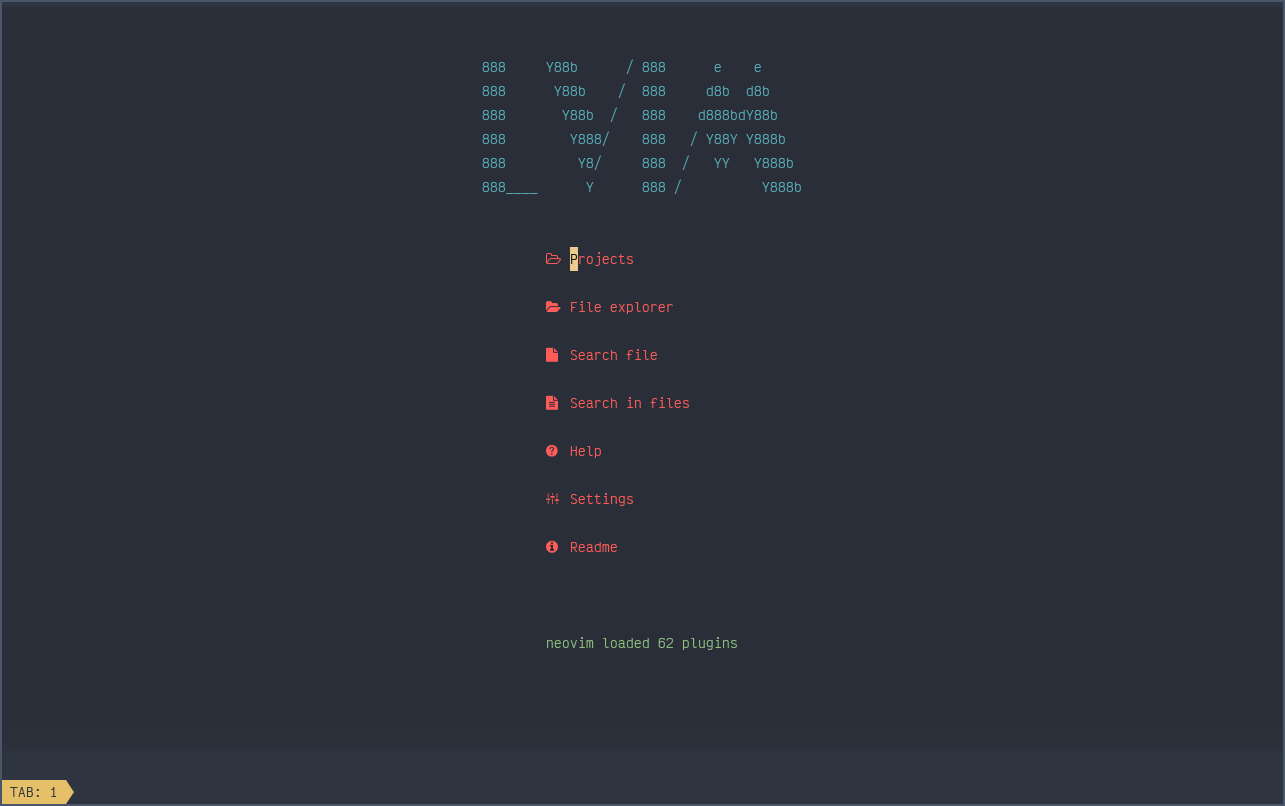
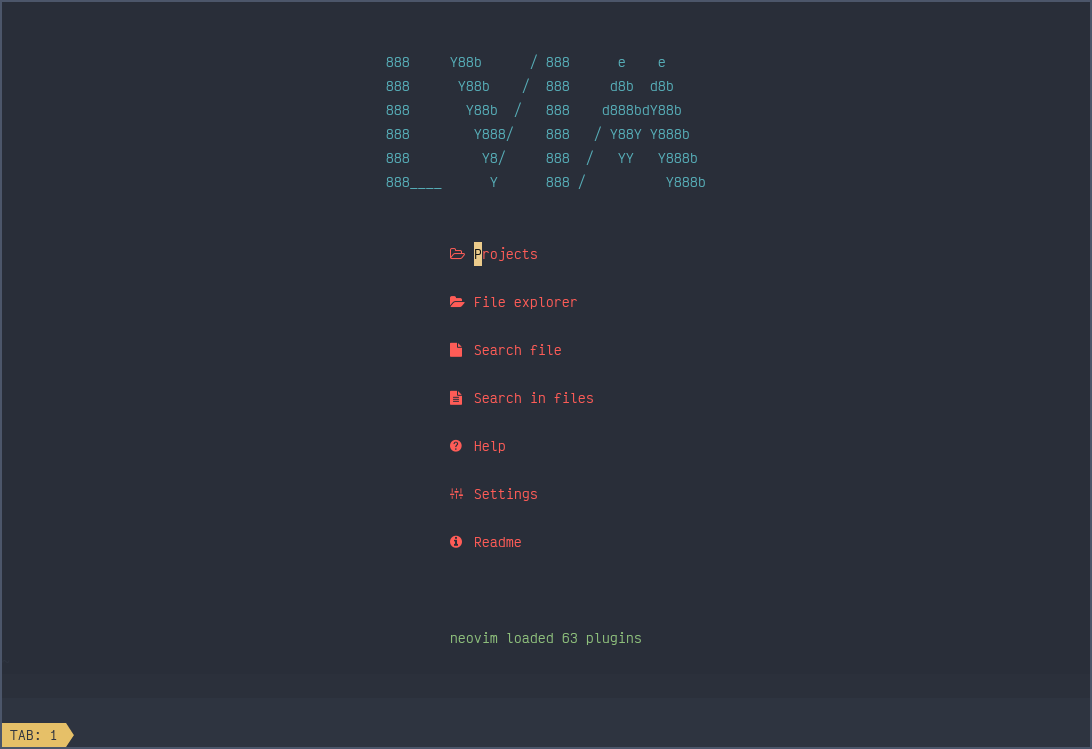
LVIM IDE v1.1.1

diff --git a/README.md b/README.md
@@ -12,17 +12,17 @@
 
 ## LVIM IDE is a modular Neovim configuration written in LUA with full customization
 
-- Now support Neovim 0.5.0, 0.5.1, 0.6.0+
-- Add or remove plugins, rewrite all plugins
-- Add or remove settings, rewrite all settings
-- Dynamic LSP activation
-- Dynamic debugging activation - Dap
-- Automaticaly install of the lsp servers and dap
-- Linters
-- Autoformat
-- Custom settings for projects
-- 62 plugins
-- Loading time - ~065.000
+-   Now support Neovim 0.5.0, 0.5.1, 0.6.0+
+-   Add or remove plugins, rewrite all plugins
+-   Add or remove settings, rewrite all settings
+-   Dynamic LSP activation
+-   Dynamic debugging activation - Dap
+-   Automaticaly install of the lsp servers and dap
+-   Linters
+-   Autoformat
+-   Custom settings for projects
+-   63 plugins
+-   Loading time - ~065.000
 
 ---
 
@@ -36,15 +36,15 @@ For detail info see [wiki](https://github.com/lvim-tech/lvim/wiki) - `6500+` lin
 
 ## Requirements
 
-- [neovim >=0.5.0](https://github.com/neovim/neovim/wiki/Installing-Neovim)
-- [pynvim](https://github.com/neovim/pynvim)
-- [neovim-remote](https://github.com/mhinz/neovim-remote)
-- [nodejs](https://nodejs.org/en/)
-- [ripgrep](https://github.com/BurntSushi/ripgrep)
-- [fzf](https://github.com/junegunn/fzf)
-- [rsync](https://github.com/WayneD/rsync)
+-   [neovim >=0.5.0](https://github.com/neovim/neovim/wiki/Installing-Neovim)
+-   [pynvim](https://github.com/neovim/pynvim)
+-   [neovim-remote](https://github.com/mhinz/neovim-remote)
+-   [nodejs](https://nodejs.org/en/)
+-   [ripgrep](https://github.com/BurntSushi/ripgrep)
+-   [fzf](https://github.com/junegunn/fzf)
+-   [rsync](https://github.com/WayneD/rsync)
 
-## Current version - 1.1.0
+## Current version - 1.1.1
 
 Install:
 
